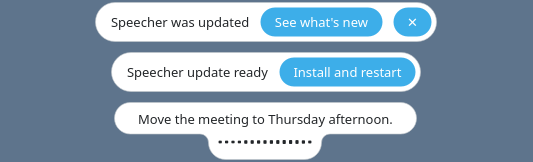
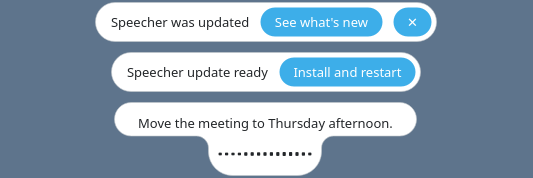
Refresh Linux screenshots with matched vertical spacing

diff --git a/docs/img/linux-unified-popup/README.md b/docs/img/linux-unified-popup/README.md
@@ -1,4 +1,4 @@
-Before-and-after captures of the real Qt `TranscriberPopup`, using the same input text and simulated microphone levels. Before source is `b67b7fc`; after source is `780a9a3`, matching the accepted Linux test popup at `575671e`. The after captures show the latest connected outline with rounded cutouts and shimmering sign-in renewal. Both use Qt 6.10.2, the Breeze widget style, `QT_QPA_PLATFORM=offscreen`, `QT_QPA_PLATFORMTHEME=kde`, and an isolated `XDG_CONFIG_HOME` containing BreezeLight or BreezeDark colours.
+Before-and-after captures of the real Qt `TranscriberPopup`, using the same input text and simulated microphone levels. Before source is `b67b7fc`; after source is `8ac81d3`, adding the same vertical padding as the native macOS and Windows popups to the accepted Linux contour. The after captures show the latest connected outline with rounded cutouts and shimmering sign-in renewal. Both use Qt 6.10.2, the Breeze widget style, `QT_QPA_PLATFORM=offscreen`, `QT_QPA_PLATFORMTHEME=kde`, and an isolated `XDG_CONFIG_HOME` containing BreezeLight or BreezeDark colours.
 
 The comparison sheets arrange the original PNGs without resizing them. The blue-grey backdrop is added to make the transparent popup visible; it is not an app colour or a desktop screenshot. Animation frames are illustrative, not pixel-identical timing comparisons.
 
@@ -6,4 +6,4 @@ Coverage: listening with no preview, short and long live previews, transcribing,
 
 The additional `before-large-font-*` / `after-large-font-*` pairs use a 48-point application font on Breeze Dark. They verify that the shared capsule preserves the baseline's readable status and receipt at large font sizes. The final popup positioning test also checks that a long error remains inside the screen with the normal bottom clearance.
 
-The preview text sits above the compact waveform or processing label. The lower contour hugs the painted content with rounded transitions. These images retain the accepted Linux spacing; the later request for more vertical padding applies to the native macOS and Windows PR.
+The preview text sits above the compact waveform or processing label. The lower contour hugs the painted content with rounded transitions. All three platforms now use 12 pixels of top padding, an 8-pixel gap between preview and lower strip, and 8 pixels of bottom padding. The spacing comparisons show the earlier contour at `780a9a3` against this roomier layout.
